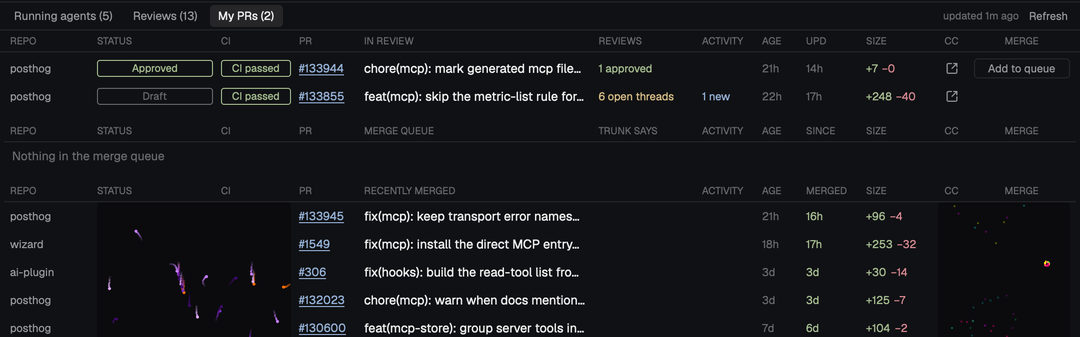
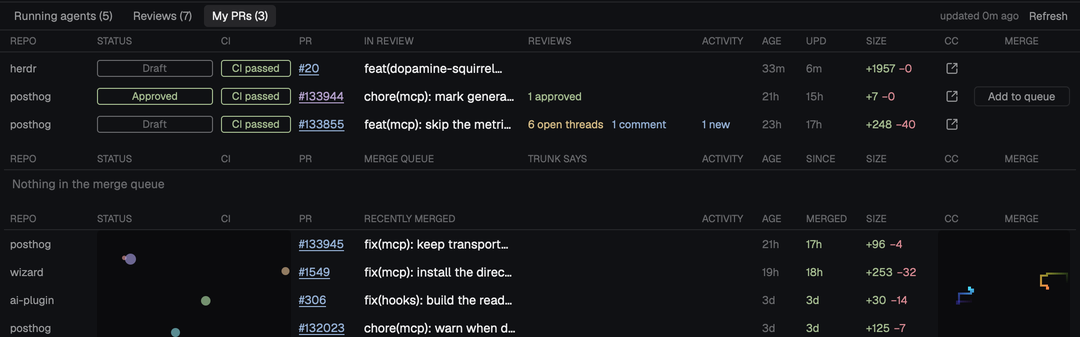
feat(dopamine-squirrel): show comments on your PRs, click a row to read them
The REVIEWS column on My PRs now counts comments from others next to
approvals and open threads, and clicking an open PR's row lists its open
threads and latest comments with links.

diff --git a/dopamine-squirrel/mods/squirrel-panel/my-prs.js b/dopamine-squirrel/mods/squirrel-panel/my-prs.js
@@ -54,6 +54,7 @@ export const myPrViews = {
       return p.repo === "PostHog/posthog" && !p.draft && q?.state !== "merged" ? "add" : null;
     };
 
+    const commentsText = (p) => p.commentCount ? `${p.commentCount} comment${p.commentCount === 1 ? "" : "s"}` : "";
     // All three tables share one column grid; text columns are sized to their longest value.
     const repoName = (p) => p.repo.replace(/^PostHog\//, "");
     const sizeText = (p) => `+${p.additions} −${p.deletions}`;
@@ -62,7 +63,7 @@ export const myPrViews = {
     const W = {
       repo: fit(rowsAll.map(repoName), "REPO"), status: 116, ci: 70, pr: fit(rowsAll.map((p) => `#${p.number}`), "PR", 7.2),
       note: Math.min(220, Math.max(0, ...[
-        ...list.map((p) => (p.approvals ? `${p.approvals} approved  ` : "") + (p.openThreads ? `${p.openThreads} open threads` : "")),
+        ...list.map((p) => (p.approvals ? `${p.approvals} approved  ` : "") + (p.openThreads ? `${p.openThreads} open threads  ` : "") + commentsText(p)),
         ...inQueue.map((p) => this.queueError[p.url] ?? p.trunk?.text ?? ""),
       ].map((x) => x.trim() ? x.length * 6.4 + 6 : 0), 76)), act: 52, age: 36, when: 52, size: fit(rowsAll.map(sizeText), "SIZE", 6.4), cc: 28,
       merge: [...list, ...inQueue].some(queueAction) ? 96 : 0,
@@ -86,7 +87,8 @@ export const myPrViews = {
     const note = (p, kind) => {
       if (kind === "review") return h_flex().w(W.note).flex_none().gap(8).text_size(11).min_w(0)
         .when(p.approvals > 0, (el) => el.child(div().flex_none().text_color(c.green).child(`${p.approvals} approved`)))
-        .when(p.openThreads > 0, (el) => el.child(div().flex_none().text_color(c.yellow).child(`${p.openThreads} open threads`)));
+        .when(p.openThreads > 0, (el) => el.child(div().flex_none().text_color(c.yellow).child(`${p.openThreads} open threads`)))
+        .when(p.commentCount > 0, (el) => el.child(div().flex_none().text_color(t.accent).child(commentsText(p))));
       if (kind === "queue") {
         const q = p.trunk, error = this.queueError[p.url];
         return div().id(`trunk-note-${p.url}`).w(W.note).flex_none().truncate().text_size(11).text_color(error ? c.red : t.dim)
@@ -97,10 +99,34 @@ export const myPrViews = {
       }
       return div().w(W.note).flex_none();
     };
+    // Click an open PR's row to read its open threads and the latest comments from others.
+    let extra = 0;
+    const details = (p) => {
+      const line = (a, tagText) => h_flex().id(`mine-act-${p.number}-${a.at}`).gap(6).min_w(0).cursor_pointer().hover((s) => s.text_color(t.foreground))
+        .on_click((_e, cx) => { cx.stop_propagation(); cx.open_url(a.url); })
+        .child(div().flex_none().w(110).truncate().text_color(t.muted).child(a.who))
+        .child(div().flex_none().w(36).text_color(t.dim).child(ago(Date.parse(a.at))))
+        .when(Boolean(tagText), (el) => el.child(c.tag(tagText, c.yellow, false)))
+        .when(Boolean(a.state && a.state !== "COMMENTED"), (el) => el.child(c.tag(a.state === "APPROVED" ? "approved" : "changes", a.state === "APPROVED" ? c.green : c.red)))
+        .child(div().flex_1().min_w(0).truncate().text_color(t.muted).child(a.path ? `${a.path.split("/").pop()}: ${a.text}` : a.text));
+      const lines = [
+        ...(p.threads ?? []).map((a) => line(a, "open")),
+        ...(p.activity ?? []).map((a) => line(a, null)),
+      ];
+      if (!lines.length) lines.push(div().text_color(t.dim).child("No comments yet"));
+      extra += 10 + lines.length * LINE;
+      return v_flex().pl(16).pr(12).pb(6).pt(2).gap(2).text_size(11.5).children(lines);
+    };
     const row = (p, kind) => {
+      const key = `mine:${p.url}`, open = kind !== "merged" && Boolean(this.expanded[key]);
+      return v_flex().child(rowLine(p, kind, key, open)).when(open, (el) => el.child(details(p)));
+    };
+    const rowLine = (p, kind, key, open) => {
       const [qLabel, qColor] = QUEUE[p.trunk?.state ?? "none"];
       const when = kind === "merged" ? p.mergedAt : kind === "queue" ? p.trunk?.at : p.updated;
       return h_flex().id(`${kind}-${p.url}`).h(ROW).px(6).gap(8).items_center().min_w(0).rounded(4).hover((s) => s.bg(t.hover))
+        .when(open, (el) => el.bg(t.surface))
+        .when(kind !== "merged", (el) => el.cursor_pointer().on_click((_e, cx) => { this.expanded[key] = !open; cx.notify(); }))
         .child(c.cell(W.repo, repoName(p), t.muted))
         .child(kind === "review" ? c.review(p) : kind === "queue" ? c.chip(W.status, qLabel, qColor) : div().w(W.status).flex_none())
         .child(kind === "merged" ? div().w(W.ci).flex_none() : c.ci(p))
@@ -138,6 +164,6 @@ export const myPrViews = {
           .child(div().absolute().top(0).right(6).w(rightW).h(H).rounded(4).overflow_hidden().bg("#00000055").children(drawSim(this.sims?.right, t.dim))));
       });
     const rows = Math.max(list.length, 1) + Math.max(inQueue.length, 1) + Math.max(merged.length, 1);
-    return { columns: header("IN REVIEW", "REVIEWS", "UPD", true), body, content: rows * ROW + 2 * (COLS + 10) };
+    return { columns: header("IN REVIEW", "REVIEWS", "UPD", true), body, content: rows * ROW + 2 * (COLS + 10) + extra };
   },
 };

diff --git a/dopamine-squirrel/mods/squirrel-topbar/github.js b/dopamine-squirrel/mods/squirrel-topbar/github.js
@@ -20,7 +20,8 @@ const GH_QUERIES = {
   reviews: () => `query { viewer { login } list: search(query: "is:pr is:open archived:false review-requested:@me", type: ISSUE, first: 100) {
     issueCount nodes { ... on PullRequest { ${PR_FIELDS} } } } }`,
   mine: () => `query { viewer { login } list: search(query: "is:pr is:open archived:false author:@me", type: ISSUE, first: 100) {
-    issueCount nodes { ... on PullRequest { ${PR_FIELDS} trunk: comments(first: 10) { nodes { author { login } body updatedAt } } } } } }`,
+    issueCount nodes { ... on PullRequest { ${PR_FIELDS} trunk: comments(first: 10) { nodes { author { login } body updatedAt } }
+      threads: reviewThreads(first: 50) { nodes { isResolved path comments(first: 1) { nodes { author { __typename login } createdAt bodyText url } } } } } } } }`,
   merged: () => `query { viewer { login } list: search(query: "is:pr is:merged author:@me merged:>=${new Date(Date.now() - mergedDays() * 864e5).toISOString().slice(0, 10)}", type: ISSUE, first: 30) {
     issueCount nodes { ... on PullRequest { number title url createdAt mergedAt additions deletions repository { nameWithOwner } commits(last: 1) { nodes { commit { statusCheckRollup { state } } } } } } } }`,
 };
@@ -95,6 +96,12 @@ function toPr(n, me, notes) {
   const note = notes.get(`${n.repository.nameWithOwner}#${n.number}`);
   return {
     headAt: head?.committedDate ?? n.createdAt, requestedAt,
+    // My PRs only (the query asks for threads there): comments still waiting on an answer or a resolve.
+    threads: (n.threads?.nodes ?? []).filter((x) => !x.isResolved && x.comments.nodes[0]).map((x) => {
+      const c = x.comments.nodes[0];
+      return { who: c.author?.login ?? "ghost", at: c.createdAt, text: c.bodyText.replace(/\s+/g, " ").slice(0, 200), url: c.url, path: x.path };
+    }),
+    commentCount: activity.length,
     activity: activity.slice(-4).map((a) => ({ ...a, text: a.text.replace(/\s+/g, " ").slice(0, 200), mentionsMe: a.text.includes(`@${me}`) })),
     newActivity: activity.filter((a) => Date.parse(a.at) > since).length,
     mentioned: activity.some((a) => a.text.includes(`@${me}`)),

diff --git a/dopamine-squirrel/RECIPE.md b/dopamine-squirrel/RECIPE.md
@@ -54,6 +54,7 @@ Take the whole thing, or point your agent at one part below and ask for just tha
 ![My PRs](screenshots/my-prs.png)
 
 - Three tables on one column grid: **In review** (your open PRs in any repo), **Merge queue** (where each one stands in Trunk, from the Trunk bot's comment) and **Recently merged** (the last 7 days).
+- The REVIEWS column counts approvals, open threads and comments from others, so non-blocking notes on an approved PR don't get missed. Click an open PR's row to read them: open threads first, then the latest comments, each linking to GitHub.
 - **Add to queue** and **Remove** run `trunk merge` and `trunk merge cancel` from your PostHog checkout. The first click arms the button; a second within 4 s runs it. Needs `trunk login` once.
 - The empty cells of merged rows are a visualizer: two live simulations (flow fields, a spectrum analyser, warp stars, orbs, rain, fireworks, Game of Life, random walkers, plasma) with random palettes, swapping every 9 to 17 s. `visualizer.js`.
 
